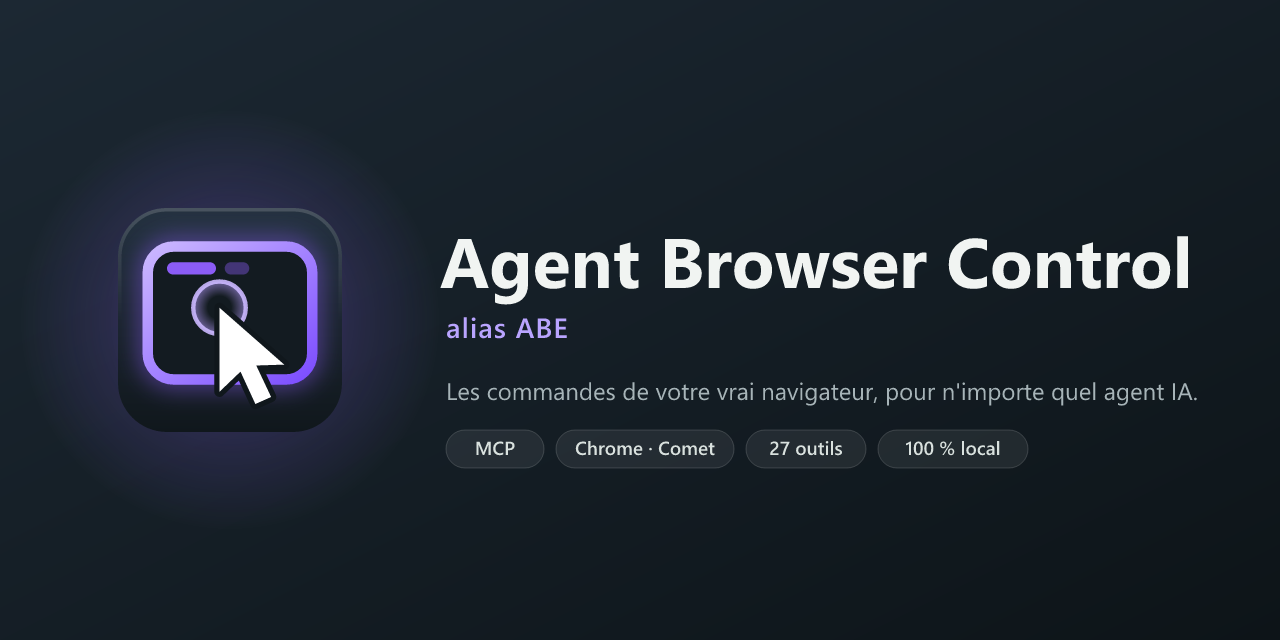
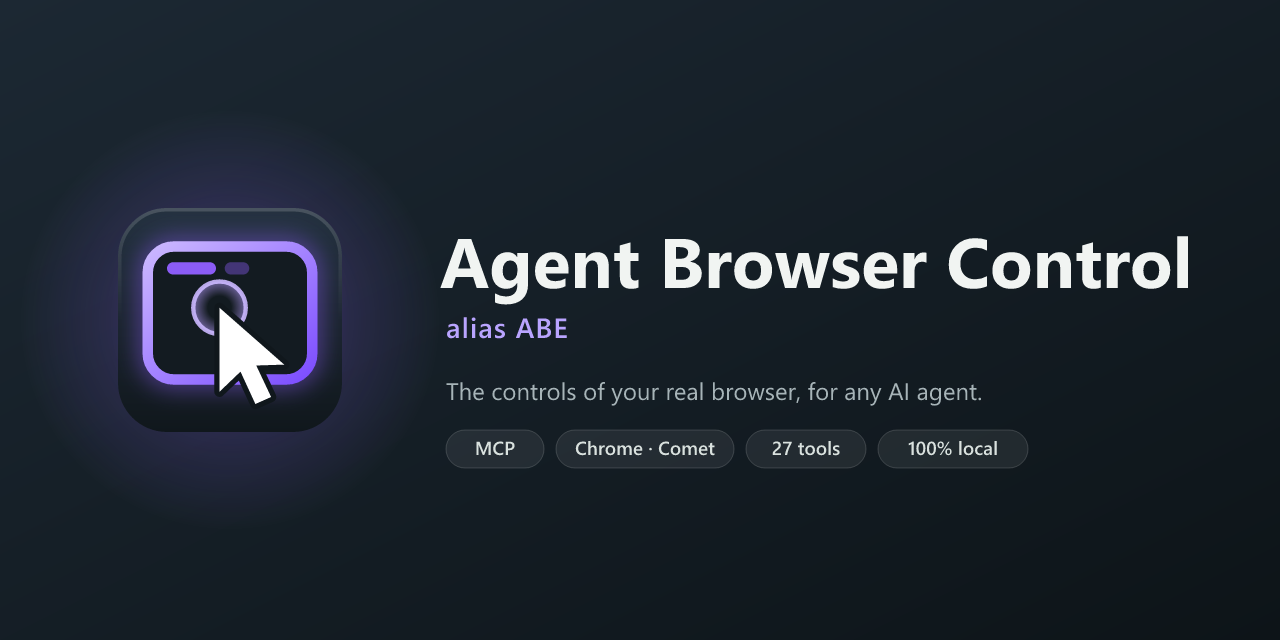
Licence MIT et README en anglais
- LICENSE (MIT), et license / author / description dans package.json
- README.en.md, avec sa bannière anglaise ; sélecteur de langue en tête des
  deux README, section licence
- Image d'aperçu pour les réseaux en anglais (une seule pour toutes les
  langues, l'anglais touche plus de monde)

Changed region(s): [[0.3438, 0.5938, 0.9375, 0.625], [0.6875, 0.6875, 0.7812, 0.7188], [0.5938, 0.6875, 0.6562, 0.7188]]

diff --git a/scripts/build-docs-assets.ts b/scripts/build-docs-assets.ts
@@ -2,7 +2,7 @@
 import { readFileSync, writeFileSync } from "node:fs";
 import { Resvg } from "@resvg/resvg-js";
 
-for (const [name, width] of [["banner", 2560], ["social-preview", 1280]] as const) {
+for (const [name, width] of [["banner", 2560], ["banner.en", 2560], ["social-preview", 1280]] as const) {
   const svg = readFileSync(`docs/assets/${name}.svg`, "utf8");
   const png = new Resvg(svg, { fitTo: { mode: "width", value: width }, font: { loadSystemFonts: true } }).render().asPng();
   writeFileSync(`docs/assets/${name}.png`, png);

diff --git a/README.en.md b/README.en.md
@@ -1,0 +1,173 @@
+<p align="center">
+  <a href="README.md">Français</a> · <b>English</b>
+</p>
+
+<p align="center">
+  <img src="docs/assets/banner.en.png" alt="Agent Browser Control, alias ABE" width="100%">
+</p>
+
+<p align="center">
+  <b>Agent Browser Control</b> (ABE for short) gives any AI agent, whether it's Claude Code, Codex, Cursor or a
+  homemade harness running on DeepSeek, the controls of <b>your real browser</b>:
+  your tabs, your sessions, and everything the DevTools can see.<br>
+  One Chrome extension, one MCP server, and that's it.
+</p>
+
+<p align="center">
+  <a href="#installation">Installation</a> ·
+  <a href="#the-tools">The 27 tools</a> ·
+  <a href="#the-side-panel">The side panel</a> ·
+  <a href="#security">Security</a> ·
+  <a href="#architecture">Architecture</a>
+</p>
+
+<p align="center">
+  <img src="docs/assets/demo.gif" alt="An agent searches for “Tour Eiffel” on Wikipedia and scrolls through the article, in a tab outlined in purple" width="880">
+</p>
+
+## Why Agent Browser Control
+
+- **Your real browser.** Not a headless Chromium running on the side: the agent works in your tabs, with the
+  accounts you're already signed in to. It sees what you see.
+- **Any agent.** Everything goes through [MCP](https://modelcontextprotocol.io): one line of configuration and the
+  agent gets all 27 tools, whatever model runs behind it.
+- **Far more than a click driver.** Accessibility tree with stable references, iframes (even cross-origin),
+  network, WebSocket, console, cookies, performance, mobile emulation, request interception, GIF or video
+  recording… The agent gets the DevTools, not just a mouse.
+- **You stay in charge.** Each agent has its own colored tab group, every action shows up live, and an emergency
+  stop cuts everything instantly.
+
+## The side panel
+
+<table>
+  <tr>
+    <td width="320"><img src="docs/assets/panel.png" alt="Side panel: emergency stop, agents, activity log" width="300"></td>
+    <td>
+      <p>Click the extension icon to open the supervision panel (the interface is currently in French):</p>
+      <ul>
+        <li><b>Emergency stop</b>: cuts every running action and detaches the agents; “Réarmer” (re-arm) to resume.</li>
+        <li><b>Agents</b>: one click takes you to an agent's tab group, whichever window it's in.</li>
+        <li><b>Activity log</b>: every action, its duration and its errors, filterable by agent.</li>
+        <li><b>Agent scripts</b>: allow <code>browser_script</code> or not (see below).</li>
+        <li><b>Blocked sites</b>: your bank, your password manager… agents never get in.</li>
+      </ul>
+      <p>On the controlled page, a purple outline and a ripple on every click show what the agent is doing.</p>
+    </td>
+  </tr>
+</table>
+
+## Installation
+
+> Requirements: **Node.js 22.18+** and a Chromium-based browser (tested on Comet, meant for Chrome, Edge, Brave…).
+
+**1. Get the project**
+
+```sh
+git clone https://github.com/salmund/agent-browser-control.git
+cd agent-browser-control
+npm install
+```
+
+**2. Load the extension**: open `chrome://extensions`, turn on *Developer mode*, click *Load unpacked* and pick the
+`extension/` folder.
+
+**3. Connect an agent**, with the same MCP configuration (stdio) for all of them:
+
+```json
+{
+  "mcpServers": {
+    "agent-browser-control": {
+      "command": "node",
+      "args": ["/path/to/agent-browser-control/server/mcp.ts"]
+    }
+  }
+}
+```
+
+With Claude Code: `claude mcp add agent-browser-control -- node /path/to/agent-browser-control/server/mcp.ts`
+
+That's all: the local daemon starts by itself on the first call. The agent's name, which is also the name of its
+tab group, is the one announced by the MCP client; use `--agent-name my-agent` to pick your own.
+
+## The tools
+
+| | Tools |
+|---|---|
+| **Tabs** | `tabs_context` · `tabs_create` (incognito too) · `tabs_close` · `navigate` · `resize_window` |
+| **See** | `read_page` (accessibility tree with refs, iframes included: full, on-screen only or as a diff) · `find` · `get_page_text` · `save_image` |
+| **Act** | `computer` (screenshot, clicks, typing, keys, scrolling, drag and drop) · `form_input` · `file_upload` · `wait_for` · `handle_dialog` |
+| **DevTools** | `javascript` · `read_console_messages` · `read_network_requests` · `network_get_body` · `network_intercept` · `read_websocket_messages` · `http_request` · `storage` · `performance_metrics` · `emulate` · `pdf` |
+| **Record, automate** | `gif_creator` (high-quality GIF or WebM video) · `browser_script` |
+
+A few details that make all the difference on real websites:
+
+- **`wait_for`** waits for a condition (an element, a text appearing or disappearing, a URL, a quiet network)
+  instead of a fixed number of seconds. A 9-second image generation? It hands control back at second 9.
+- **Windows covering the page**, such as cookie banners or modals, are flagged at the top of every read, with the
+  buttons to close them and the instruction to decline non-essential cookies.
+- **`file_upload`** also works when the site opens the file picker on click: the system dialog is intercepted, so
+  the agent never has to deal with it.
+- **`read_page` in `diff` mode** only returns what changed since the previous read: less context, more speed.
+
+### `browser_script`: dozens of actions in a single call
+
+For repetitive tasks, the agent can write a small program that runs in one go, with no round trip to the model:
+
+```js
+// Today's Hacker News stories, sorted by score
+await nav("https://news.ycombinator.com/");
+const stories = await js(String.raw`[...document.querySelectorAll("tr.athing")].map((row) => ({
+  title: row.querySelector(".titleline > a")?.textContent,
+  points: parseInt(row.nextElementSibling?.querySelector(".score")?.textContent) || 0,
+}))`);
+return stories.sort((a, b) => b.points - a.points).slice(0, 10);
+```
+
+The script runs in a *sandbox* page of the extension, with no network and no browser APIs, and can only act
+through the tools, with the same safeguards. Because it chains actions without looking at the page in between,
+**it is disabled by default**: you're the one who allows it, in the side panel. More examples in
+[`examples/scripts/`](examples/scripts): comparing cities on Wikipedia, checking a page for broken links.
+
+## Security
+
+- **Everything stays on your machine.** The daemon listens on `127.0.0.1` with a token; it rejects any request
+  coming from a web page and only accepts your extension.
+- **Page content is data, not instructions.** Everything coming from a page is marked as untrusted, so the agent
+  doesn't follow booby-trapped text.
+- **Each agent stays in its own tabs**, and never enters the sites you've blocked.
+- **`http_request` is sent without cookies**: the agent can query an API, not act on your behalf on your accounts.
+- **The emergency stop** cuts everything, including a running script.
+
+## Architecture
+
+```mermaid
+flowchart LR
+    A1[Claude Code] & A2[Codex / Cursor] & A3[Homemade harness] -- MCP stdio --> S[server/mcp.ts]
+    S -- "HTTP + token" --> D[Local daemon<br/>127.0.0.1:7878]
+    D <-- WebSocket --> E[MV3 extension]
+    E -- "Chrome DevTools Protocol" --> P[Your tabs]
+    E --- SP[Side panel]
+    E --- SB[Script sandbox]
+```
+
+- **`server/`**: the MCP server (one per agent) and the daemon that links them to the extension. TypeScript run
+  directly by Node, no build step.
+- **`extension/`**: the Manifest V3 extension. The service worker drives the tabs through `chrome.debugger`,
+  `page.js` reads pages and their iframes, the side panel supervises.
+
+## Development
+
+```sh
+npm run typecheck          # TypeScript check
+npm run reload-extension   # reload the extension after a change
+node test/smoke.ts         # end-to-end test without a browser
+node test/call.ts <tool> '<json>'   # call a tool the way an agent would
+npm run build-icons        # extension icons from the SVGs
+npm run build-docs         # this README's visuals from the SVGs
+```
+
+The detailed design (in French) is in [`SPEC.md`](SPEC.md).
+
+## License
+
+[MIT](LICENSE): free to use, modify and redistribute, including for commercial purposes.

diff --git a/README.md b/README.md
@@ -1,4 +1,8 @@
 <p align="center">
+  <b>Français</b> · <a href="README.en.md">English</a>
+</p>
+
+<p align="center">
   <img src="docs/assets/banner.png" alt="Agent Browser Control, alias ABE" width="100%">
 </p>
 
@@ -165,3 +169,7 @@ npm run build-docs         # visuels de ce README depuis les SVG
 ```
 
 La conception détaillée est dans [`SPEC.md`](SPEC.md).
+
+## Licence
+
+[MIT](LICENSE) : libre d'utilisation, de modification et de redistribution, y compris à des fins commerciales.
